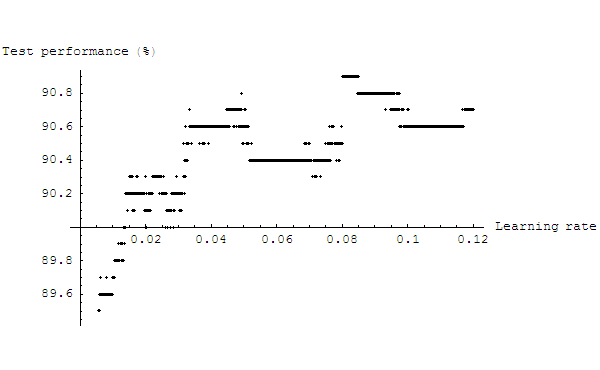
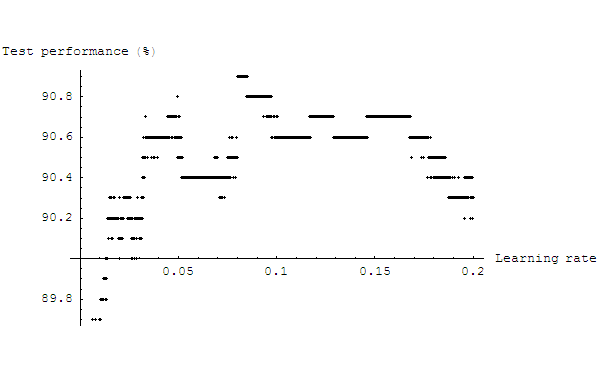
Writeup.

diff --git a/hw2/cs181-2.tex b/hw2/cs181-2.tex
@@ -136,7 +136,6 @@
       fail to learn XOR?  What parameters can you tune to alleviate
       this type of problem?}
 
-<<<<<<< HEAD
     The weights for one incorrect output net are as follows:
 
     \[(-7.117, 4.143, -4.186)\qquad(-6.529, 3.440, -3.485)\]
@@ -200,7 +199,7 @@
         \includegraphics[scale=.5]{plot_test_001.png}
       \end{center}
 
-      With a step of .0001 (range .0001 to .12):
+      With a step of .0001 (range .0001 to .2):
 
       \begin{center}
         \includegraphics[scale=.5]{plot_test_0001.png}
@@ -213,26 +212,45 @@
     \item \textit{For this learning rate, chart the training set and
       validation error against the number of epochs from 1 to 100.}
 
+      \begin{center}
+        \includegraphics[scale=.4]{100_rounds.png}
+      \end{center}
+
+      The bottom line is the training set error; the top is validation
+      set error.
+
       \begin{enumerate}
       \item \textit{Are we in danger of overfitting by training for
         too many epochs?}
 
+        It doesn't really look like it; the validation set performance
+        hardly goes down (and actually looks like it might be going
+        up) as the number of rounds increases.
 
       \item \textit{What is a good number of epochs to train for?}
 
+        At around 10 epochs, it looks like the validation performance
+        has basically reached its stable value. and that's the
+        smallest number of epochs to do so.
 
       \item \textit{Why is it important that we use a validation set
         (rather than the actual test set) to tune the number of
         epochs?}
 
-        If we use the test set to tune the number of epochs, the tuning may 
-        overfit to the testing data, resulting in better reported performance. 
+        If we use the test set to tune the number of epochs, the
+        tuning may overfit to the testing data, resulting in better
+        reported performance. The point of the test set is that it
+        doesn't affect the parameters of the net at all, so that it
+        can provide an accurate measure of its performance.
 
       \end{enumerate}
-    \item \textit{What is the training, validation, and test
-      performance of the network trained with your chosen learning
-      rate and number of epochs?}
+    \item \textit{What is the training, validation, and test}
+      performance \textit{of the network trained with your chosen
+        learning rate and number of epochs?}
 
+      After the last epoch, the training performance is 91.85\%, the
+      validation performance is 85.80\%, and the test performance is
+      90.50\%.
     \end{enumerate}
 
   \item \textbf{Model Selection}
@@ -242,14 +260,12 @@
       better? Is this in line with what we know about encodings? Use
       the better encoding for the rest of this problem.}
 
-
       We believe that the distributed encoding should do better. 
       This is because the binary encoding does not encode in a way
       that makes sense; there is no property of the (images of the)
       digits that links all odd digits together while they all share
       a 1 in the least significant spot in a binary encoding, for 
       example. 
-
 
     \item \textit{Provide the learning rates you used for training 15
       and 30 hidden units.}
